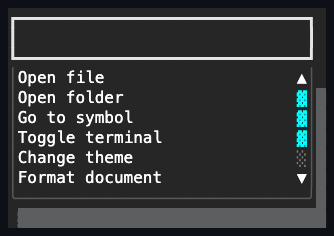
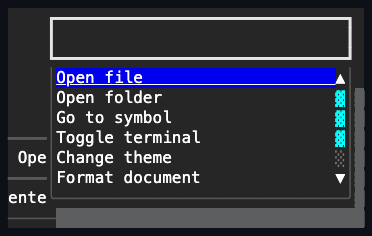
fix(showcase): give command palette example room

Changed region(s): [[0.0, 0.2669, 0.988, 0.9788], [0.0299, 0.0593, 0.1497, 0.2669], [0.9281, 0.0593, 0.9581, 0.2669]]

diff --git a/examples/Showcase/Panes/CommandPalettePane.cs b/examples/Showcase/Panes/CommandPalettePane.cs
@@ -111,11 +111,11 @@ internal sealed class CommandPalettePane: CompositeControlBase
             Children = { showCenter, showTop }
         };
         Overlay.SetTop(triggers, Length.Cells(12));
-        Overlay.SetTop(presentationStatus, Length.Cells(14));
+        Overlay.SetTop(presentationStatus, Length.Cells(15));
         var presentationStage = new Overlay
         {
             Width = Length.Cells(44),
-            Height = Length.Cells(16),
+            Height = Length.Cells(18),
             ClipToBounds = false,
             Border = new Border(
                 BorderSide.All,
